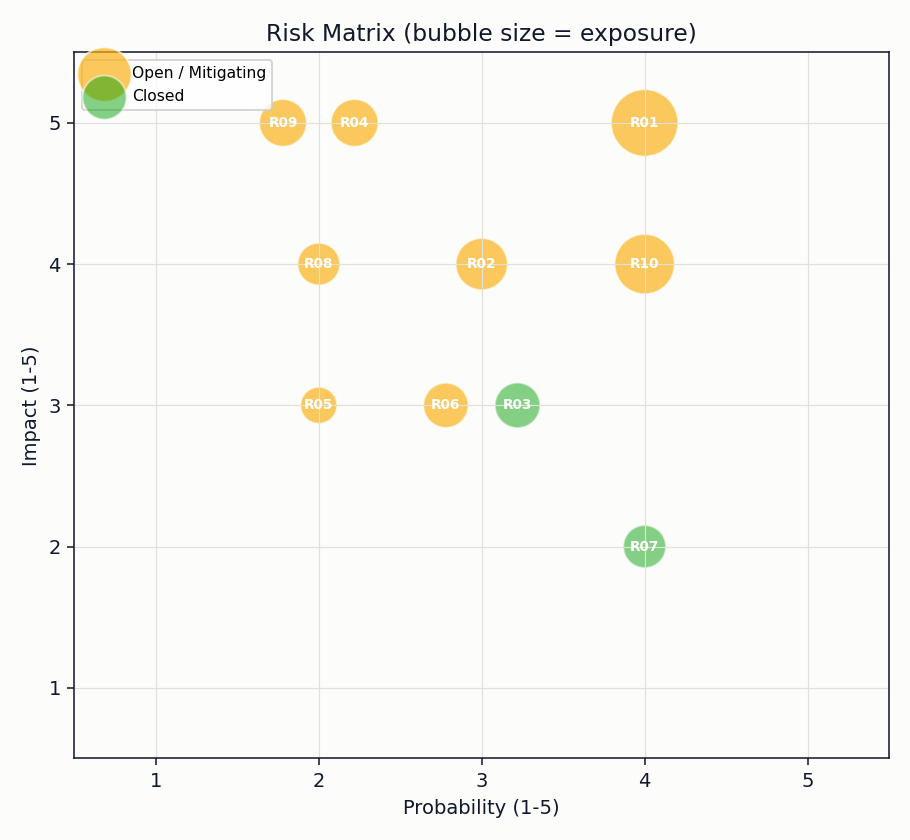
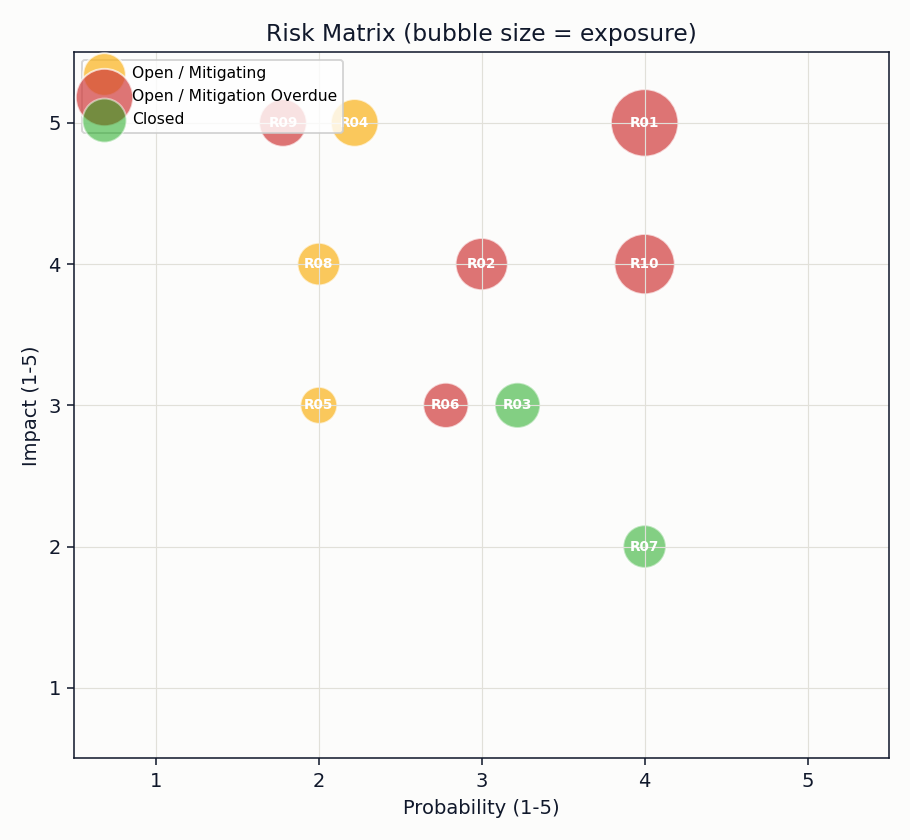
Fix risk matrix coloring and drop redundant savefig facecolor
- chart_risk_matrix() now splits open risks into overdue (STATUS_CRITICAL/
  red) vs. still-on-track (STATUS_WARNING/amber), using the `overdue` flag
  metrics.load_risk_register() already computes. Previously every open risk
  rendered amber regardless of severity, so a high-exposure, mitigation-
  overdue risk (e.g. R01) looked identical to a routine on-track one.
  Closed risks remain STATUS_GOOD/green.
- Removed the explicit facecolor=CHART_BG argument from all 5 fig.savefig()
  calls; _apply_chrome() already sets fig.patch's facecolor to CHART_BG
  before save, and savefig's facecolor='auto' default picks that up, so the
  argument was redundant.
- Regenerated assets/risk_matrix.png to reflect the corrected coloring (the
  other four charts are byte-identical, as expected).

diff --git a/dashboard.py b/dashboard.py
@@ -147,7 +147,7 @@ def chart_change_register(changes) -> None:
     ax.grid(color=GRID, linewidth=0.6, axis="x")
     _apply_chrome(fig, ax)
     fig.tight_layout()
-    fig.savefig(os.path.join(ASSETS_DIR, "change_register.png"), dpi=140, facecolor=CHART_BG)
+    fig.savefig(os.path.join(ASSETS_DIR, "change_register.png"), dpi=140)
     plt.close(fig)
 
 
@@ -246,7 +246,7 @@ def chart_s_curve(ts, summary, forecast_finish) -> None:
     _apply_chrome(fig, ax)
     fig.autofmt_xdate()
     fig.tight_layout()
-    fig.savefig(os.path.join(ASSETS_DIR, "s_curve.png"), dpi=140, facecolor=CHART_BG)
+    fig.savefig(os.path.join(ASSETS_DIR, "s_curve.png"), dpi=140)
     plt.close(fig)
 
 
@@ -265,7 +265,7 @@ def chart_spi_cpi_trend(ts) -> None:
     _apply_chrome(fig, ax)
     fig.autofmt_xdate()
     fig.tight_layout()
-    fig.savefig(os.path.join(ASSETS_DIR, "spi_cpi_trend.png"), dpi=140, facecolor=CHART_BG)
+    fig.savefig(os.path.join(ASSETS_DIR, "spi_cpi_trend.png"), dpi=140)
     plt.close(fig)
 
 
@@ -288,7 +288,7 @@ def chart_milestones(milestones) -> None:
     _apply_chrome(fig, ax)
     fig.autofmt_xdate()
     fig.tight_layout()
-    fig.savefig(os.path.join(ASSETS_DIR, "milestones.png"), dpi=140, facecolor=CHART_BG)
+    fig.savefig(os.path.join(ASSETS_DIR, "milestones.png"), dpi=140)
     plt.close(fig)
 
 
@@ -311,11 +311,16 @@ def _spread_overlapping_points(risks):
 def chart_risk_matrix(risks) -> None:
     risks = _spread_overlapping_points(risks)
     fig, ax = plt.subplots(figsize=(6.5, 6))
-    open_risks = risks[risks["status"] != "Closed"]
-    closed_risks = risks[risks["status"] == "Closed"]
-    ax.scatter(open_risks["plot_probability"].to_numpy(), open_risks["plot_impact"].to_numpy(),
-               s=(open_risks["exposure"] * 60).to_numpy(), color=STATUS_WARNING, alpha=0.7,
+    open_mask = risks["status"] != "Closed"
+    overdue_risks = risks[open_mask & risks["overdue"]]
+    active_risks = risks[open_mask & ~risks["overdue"]]
+    closed_risks = risks[~open_mask]
+    ax.scatter(active_risks["plot_probability"].to_numpy(), active_risks["plot_impact"].to_numpy(),
+               s=(active_risks["exposure"] * 60).to_numpy(), color=STATUS_WARNING, alpha=0.7,
                edgecolor="white", label="Open / Mitigating")
+    ax.scatter(overdue_risks["plot_probability"].to_numpy(), overdue_risks["plot_impact"].to_numpy(),
+               s=(overdue_risks["exposure"] * 60).to_numpy(), color=STATUS_CRITICAL, alpha=0.7,
+               edgecolor="white", label="Open / Mitigation Overdue")
     ax.scatter(closed_risks["plot_probability"].to_numpy(), closed_risks["plot_impact"].to_numpy(),
                s=(closed_risks["exposure"] * 60).to_numpy(), color=STATUS_GOOD, alpha=0.5,
                edgecolor="white", label="Closed")
@@ -331,7 +336,7 @@ def chart_risk_matrix(risks) -> None:
     ax.grid(color=GRID, linewidth=0.6)
     _apply_chrome(fig, ax)
     fig.tight_layout()
-    fig.savefig(os.path.join(ASSETS_DIR, "risk_matrix.png"), dpi=140, facecolor=CHART_BG)
+    fig.savefig(os.path.join(ASSETS_DIR, "risk_matrix.png"), dpi=140)
     plt.close(fig)
 
 
